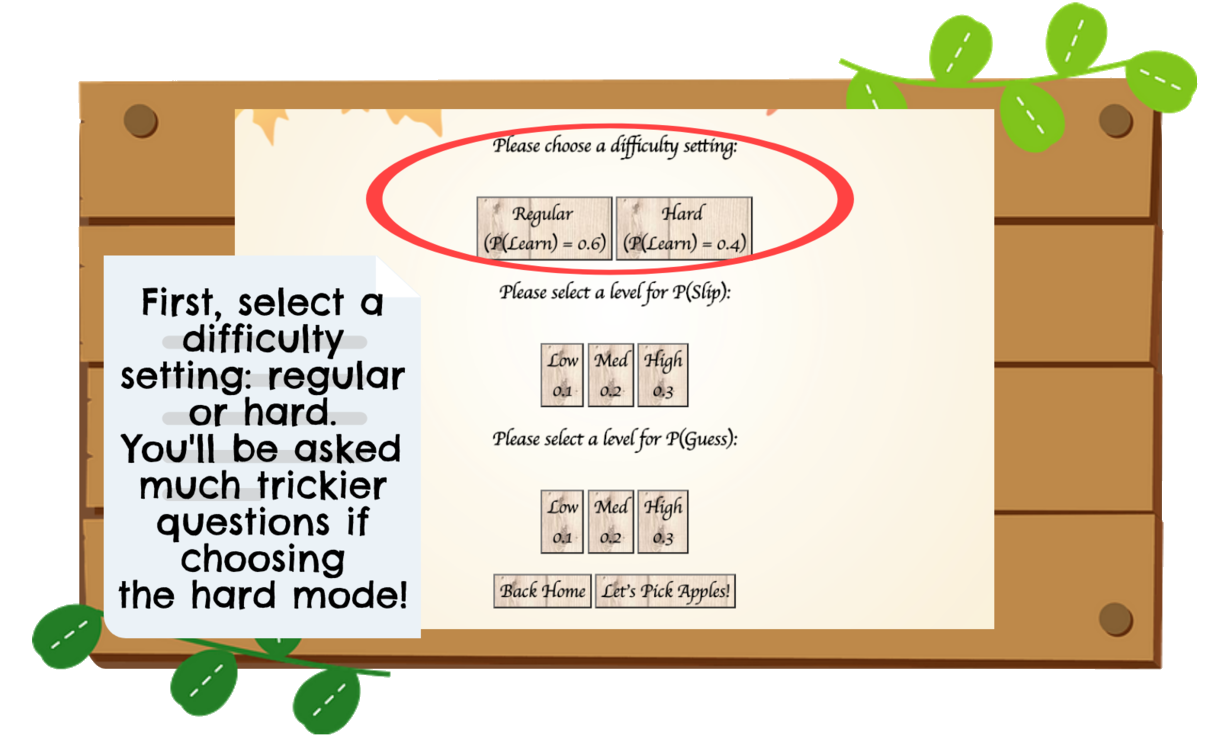
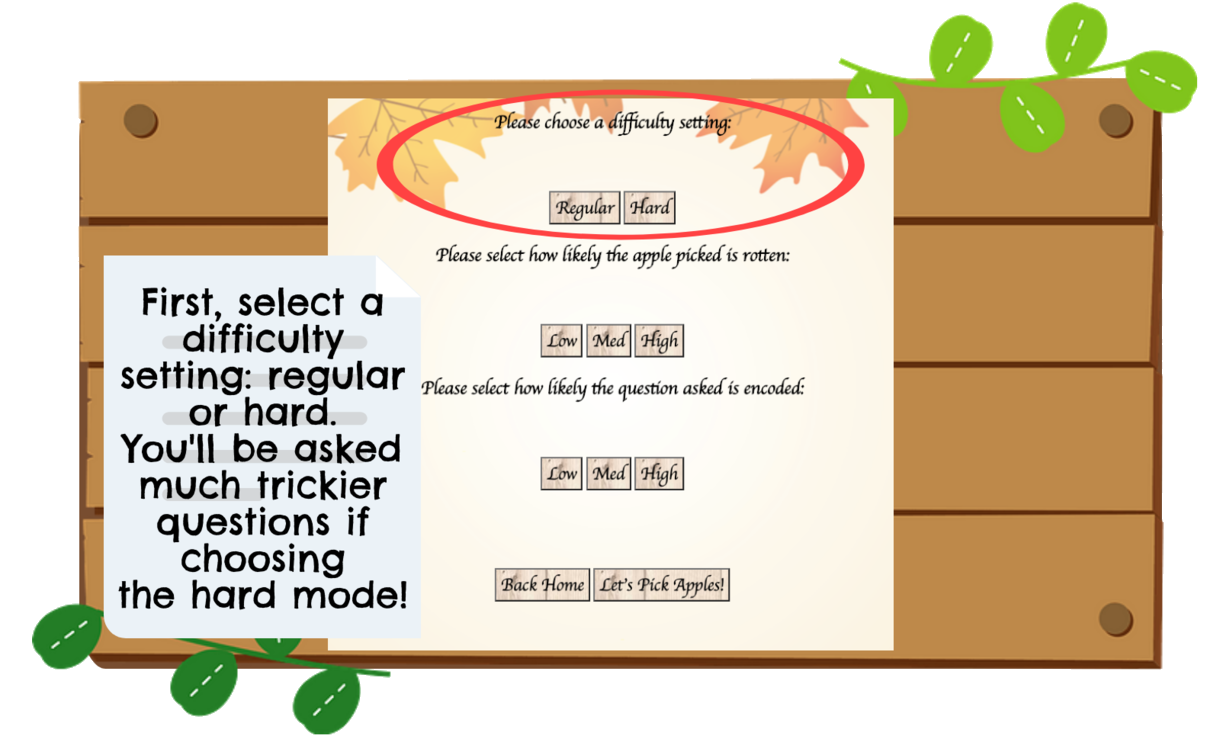
In progress for further explanation

Changed region(s): [[0.1872, 0.0926, 0.8424, 0.8953]]

diff --git a/ApplePickingBKT/index.html b/ApplePickingBKT/index.html
@@ -10,22 +10,6 @@
       <h2><i>What</i> Is BKT?</h2>
       <p>Bayesian Knowledge Tracing (BKT for short) is an artificial intelligence algorithm used to predict if students have learned a skill based on their state of knowledge.</p>
 
-      <h2><i>How</i> Is It Calculated?</h2>
-      <p>BKT is calculated based on 4 probabilities: <b>P(Know), P(Learn), P(Slip), and P(Guess)</b>.</p>
-      <p><span style="color:#8FBB09"><b>P(Know)</b></span>: the likelihood of the user learning the targeted content; “mastery” of the content is usually considered achieved if this value reaches 0.95 or greater.</p>
-      <p><span style="color:#ffaa00"><b>P(Learn)</b></span>: the likelihood that the user will learn the skill in the next practice opportunity; this is sometimes referred to how “easily” the skill is to master, and a lower P(Learn) value will suggest a skill that is more difficult to learn than one that has a higher P(Learn) value.</p>
-      <p><span style="color:#fa7e04"><b>P(Slip)</b></span>: the likelihood that the user will answer incorrectly despite already knowing the skill; a low P(Slip) value suggests that if the user already knows the skill, they will almost certainly answer correctly.</p>
-      <p><span style="color:#F64D0D"><b>P(Guess)</b></span>: the likelihood that the user will answer correctly despite not knowing the skill; a P(Guess) value that is too high might suggest some degeneracy in the model where the P(Know) value implies that the user has mastered the skill but in reality, they are just good at guessing.</p>
-
-      <button type="button" class="wood" id="algoButton" style="font-size: 25px">See The Algorithm</button>
-      <div id="algoSpace" style="display: none">
-        <p>First, we calculate the conditional probability that the apple trivia was learned previously (at time n-1), based on whether the current question (at time n) was answered correctly or incorrectly:</p>
-        <img src="condRight.png" alt="correct conditional probability"> <br>
-        <img src="condWrong.png" alt="incorrect conditional probability">
-        <p>Then, we use that result to compute the conditional probability that the student has learned the skill now (at time n):</p>
-        <img src="pKnow.png" alt="P(Know) probability from conditional results">
-      </div>
-
       <h2><i>Why</i> Is It Useful?</h2>
       <p>BKT provides us with a means to advance users’ learning experiences to make them more engaging and are utilized through Open Learning Initiatives. It’s also a great tool for instructors to infer whether or not students are successful in their efforts and can improve their curriculum accordingly.</p>
 
@@ -68,27 +52,27 @@
         <div id="pLearn-parent">
           <h2>Please choose a difficulty setting:</h2>
           <br>
-          <button type="button" class="pLearnButton">Regular <br>(P(Learn) = 0.6)</button>
-          <button type="button" class="pLearnButton">Hard <br>(P(Learn) = 0.4)</button>
+          <button type="button" class="pLearnButton">Regular</button>
+          <button type="button" class="pLearnButton">Hard</button>
         </div>
 
         <div id="pSlip-parent">
-          <h2>Please select a level for P(Slip):</h2>
+          <h2>Please select how likely the apple picked is rotten:</h2>
           <br>
-          <button type="button" class="pSlipButton">Low<br>0.1</button>
-          <button type="button" class="pSlipButton">Med<br>0.2</button>
-          <button type="button" class="pSlipButton">High<br>0.3</button>
+          <button type="button" class="pSlipButton">Low</button>
+          <button type="button" class="pSlipButton">Med</button>
+          <button type="button" class="pSlipButton">High</button>
         </div>
 
         <div id="pGuess-parent">
-          <h2>Please select a level for P(Guess):</h2>
+          <h2>Please select how likely the question asked is encoded:</h2>
           <br>
-          <button type="button" class="pGuessButton">Low<br>0.1</button>
-          <button type="button" class="pGuessButton">Med<br>0.2</button>
-          <button type="button" class="pGuessButton">High<br>0.3</button>
+          <button type="button" class="pGuessButton">Low</button>
+          <button type="button" class="pGuessButton">Med</button>
+          <button type="button" class="pGuessButton">High</button>
         </div>
 
-        <br>
+        <br><br><br><br>
         <button type="button" class="wood" id="backHome">Back Home</button>
         <button type="button" class="wood" id="startGame">Let's Pick Apples!</button>
       </div>
@@ -106,10 +90,44 @@
           <button type="button" class="answerChoice">Choice C</button>
           <button type="button" class="answerChoice">Choice D</button>
           <br>
-        <button type="button" class="wood" id="quit">Quit Game</button>
+          <button type="button" class="wood" id="quit">Quit Game</button>
+          <br>
       </div>
     </div>
-    <br>
+
+    <div id="explain" style="display: none">
+      <p>BKT is calculated based on 4 probabilities: <b>P(Know), P(Learn), P(Slip), and P(Guess)</b>.</p>
+      <p><span style="color:#985413"><b>P(Know)</b></span>: the likelihood of the user learning the targeted content; “mastery” of the content is usually considered achieved if this value reaches 0.95 or greater.</p>
+      <p>In the game, the user starts off with an arbitrary level of apple knowledge: P(Know) = 0.2</p>
+      <p>As they answer more and more questions, P(Know) increases or decreases in accordance to whether the answer was correct or incorrect as well as the preset parameters for P(Learn), P(Slip), and P(Guess).</p>
+
+      <p><b><i>Huh</i>? When were those other 3 parameters preset?</b></p>
+
+      <p><span style="color:#ffaa00"><b>P(Learn)</b></span>: the likelihood that the user will learn the skill in the next practice opportunity; this is sometimes referred to how “easily” the skill is to master, and a lower P(Learn) value will suggest a skill that is more difficult to learn than one that has a higher P(Learn) value.</p>
+      <p>P(Learn) was preset when the user selected a difficulty setting: regular or hard.</p>
+      <p>By choosing the difficulty, they also set up how "easy" or "hard" the concept will be to learn. In the game, selecting Regular would equate to a P(Learn) of 0.6 while selecting Hard equated to a P(Learn) of 0.4, corresponding with the concept that a higher P(Learn) value suggests that a concept is easier to learn than one with a lower P(Learn) value.</p>
+
+      <p><span style="color:#fa7e04"><b>P(Slip)</b></span>: the likelihood that the user will answer incorrectly despite already knowing the skill; a low P(Slip) value suggests that if the user already knows the skill, they will almost certainly answer correctly.</p>
+      <p>P(Slip) was preset when selecting how likely an apple the user succeeded in picking turns out to be rotten. This represents the idea that even though the student has "learned" the concept, they still make a mistake and answer incorrectly. In the game, they might select the correct answer choice, but if the apple turns out to be rotten, it will be counted as incorrect.</p>
+
+      <p><span style="color:#F64D0D"><b>P(Guess)</b></span>: the likelihood that the user will answer correctly despite not knowing the skill; a P(Guess) value that is too high might suggest some degeneracy in the model where the P(Know) value implies that the user has mastered the skill but in reality, they are just good at guessing.</p>
+      <p>P(Guess) was preset when selecting how likely questions asked will be encoded. By encoding the questions and answer choices, the user is forced to guess. This is to illustrate the concept of not knowing the content and guessing on the answer. Unlike the actual BKT parameter, where the correct answer is chosen even without knowledge of content, users can still answer incorrectly in the gameplay.</p>
+
+      <button type="button" class="wood" id="algoButton" style="font-size: 25px">How Is It Calculated?</button>
+      <div id="algoSpace" style="display: none">
+        <p>First, we calculate the conditional probability that the apple trivia was learned previously (at time n-1), based on whether the current question (at time n) was answered correctly or incorrectly:</p>
+        <img src="condRight.png" alt="correct conditional probability"> <br>
+        <img src="condWrong.png" alt="incorrect conditional probability">
+        <p>Then, we use that result to compute the conditional probability that the student has learned the skill now (at time n):</p>
+        <img src="pKnow.png" alt="P(Know) probability from conditional results">
+      </div>
+    </div>
+    <br><br>
+    <div id="moreContainer" style="text-align: center; display: none">
+      <button type="button" class="wood" id="more">So What Does Apple Picking Have To Do With BKT?</button>
+    </div>
+
+    <br><br><br><br>
     <script src="script.js"></script>
   </body>
 </html>

diff --git a/ApplePickingBKT/script.js b/ApplePickingBKT/script.js
@@ -2,12 +2,12 @@
 var mathButton = document.getElementById('algoButton')
 var mathSpace = document.getElementById('algoSpace')
 mathButton.addEventListener("click", function() {
-  if (mathButton.innerHTML == "See The Algorithm") {
+  if (mathButton.innerHTML == "How Is It Calculated?") {
     mathSpace.style.display = 'block'
     mathButton.innerHTML = "Hide The Algorithm"
   } else {
     mathSpace.style.display = 'none'
-    mathButton.innerHTML = "See The Algorithm"
+    mathButton.innerHTML = "How Is It Calculated?"
   }
 })
 
@@ -40,7 +40,6 @@ toInstructions.addEventListener("click", function() {
   document.getElementById('home').style.display = 'none'
   slideIndex = 0
   prevSlide.disabled = true
-  //nextSlide.disabled = false
   nextSlide.innerHTML = "Next"
   document.slide.src = slideImages[slideIndex]
   progess.innerHTML = "Slide " + (slideIndex+1) + "/9"
@@ -442,6 +441,11 @@ function quitGame() {
   document.getElementById('home').style.display = 'block'
   document.getElementById('preset').style.display = 'none'
   document.getElementById('mainGame').style.display = 'none'
+  document.getElementById('moreContainer').style.display = 'none'
+  moreButton.innerHTML = "So What Does Apple Picking Have To Do With BKT?"
+  moreSpace.style.display = 'none'
+  mathSpace.style.display = 'none'
+  mathButton.innerHTML = "How Is It Calculated?"
   resetPLearnButtons()
   resetPSlipButtons()
   resetPGuessButtons()
@@ -464,7 +468,7 @@ startButton.addEventListener("click", function() {
     document.getElementById('preset').style.display = 'none'
     firstQuestion()
   } else {
-    window.alert("You need to choose a difficulty setting and values for P(Slip) and P(Guess)!")
+    window.alert("You need to choose a difficulty setting and probabilities for rotten apples and encoded questions!")
   }
 })
 
@@ -653,6 +657,9 @@ function nextQuestion() {
 }
 
 //------Game ends
+var moreButton = document.getElementById('more')
+var moreSpace = document.getElementById('explain')
+
 function endGame() {
   temp++
   chanceSpace.innerHTML = "Questions Remaining: " + (10-temp)
@@ -671,4 +678,16 @@ function endGame() {
   buttonB.disabled = true;
   buttonC.disabled = true;
   buttonD.disabled = true;
+
+  document.getElementById('moreContainer').style.display = 'block'
 }
+
+moreButton.addEventListener("click", function() {
+  if (moreButton.innerHTML == "So What Does Apple Picking Have To Do With BKT?") {
+    moreButton.innerHTML = "Hide Further Explanation"
+    moreSpace.style.display = 'block'
+  } else {
+    moreButton.innerHTML = "So What Does Apple Picking Have To Do With BKT?"
+    moreSpace.style.display = 'none'
+  }
+})

diff --git a/ApplePickingBKT/stylesheet.css b/ApplePickingBKT/stylesheet.css
@@ -5,7 +5,7 @@ body {
   background-position: center;
 }
 
-.intro {
+.intro, #explain {
   font-family: Georgia, serif;
   font-size: 20px;
   text-align: center;
@@ -18,6 +18,7 @@ body {
   cursor: pointer;
   font-family: Apple Chancery, cursive;
   font-size: 23px;
+  margin: 0px 3px;
 }
 
 #pKnow, #chances {
